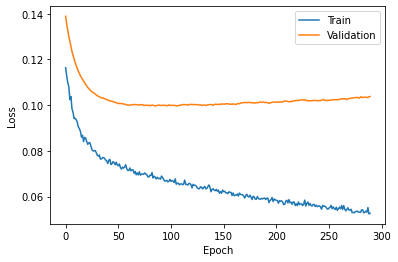
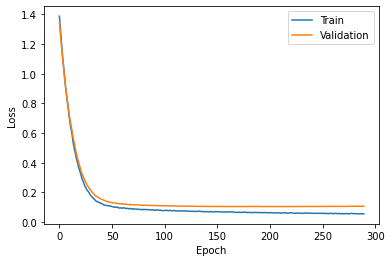
standardscaler also sucked, both with and without weight constraints

diff --git a/model.py b/model.py
@@ -46,7 +46,7 @@ binary_columns = set(["AL", "SameTeam", "bats_right", "bats_switch"])
 dont_standardize = set([*binary_columns, "P_OPS"])
 do_standardize = set(all_data.columns.to_list()) - dont_standardize
 
-scaler = preprocess.MinMaxScaler()
+scaler = preprocess.StandardScaler()
 all_data[list(do_standardize)] = scaler.fit_transform(all_data[do_standardize])
 
 #%%
